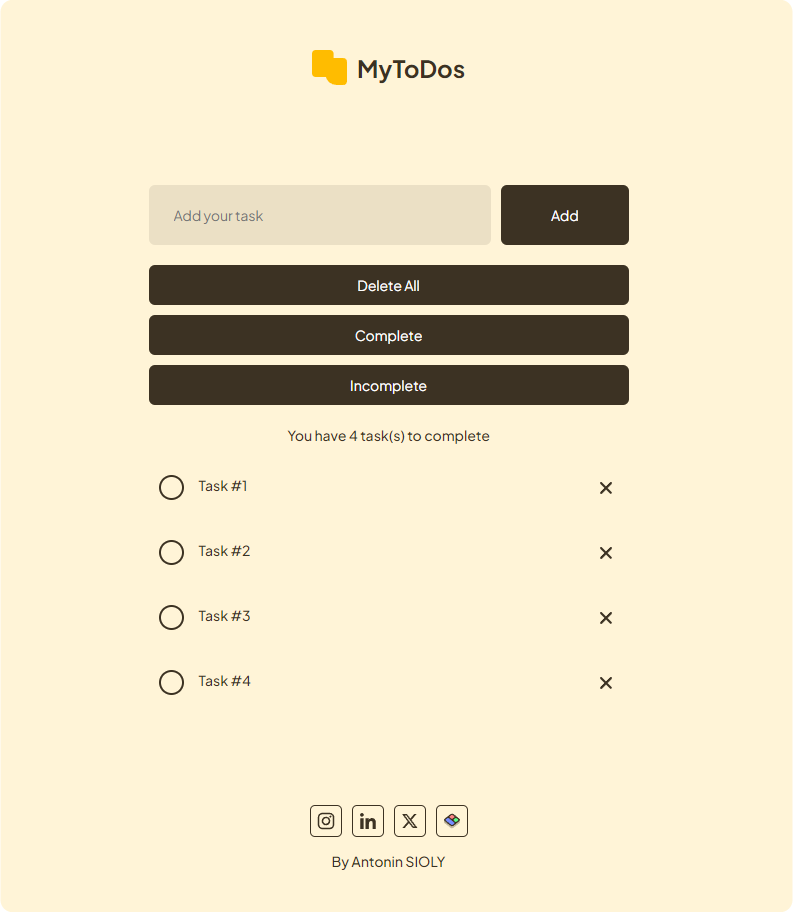
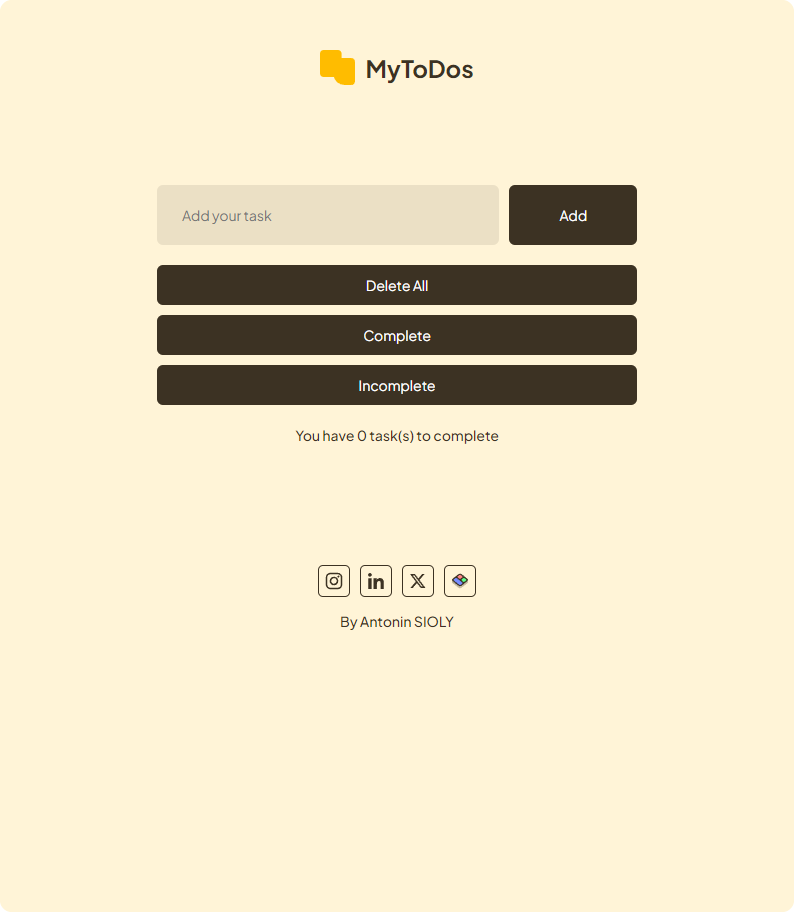
Update README

diff --git a/README.md b/README.md
@@ -18,6 +18,8 @@
 ## Demo
 Check out the live demo: [MyToDos Live](https://heyanto.github.io/MyToDos-App/)
 
+![Screenshot](Assets/readme-screenshot2.png)
+
 ## Installation
 1. Clone the repository:
 ```bash
